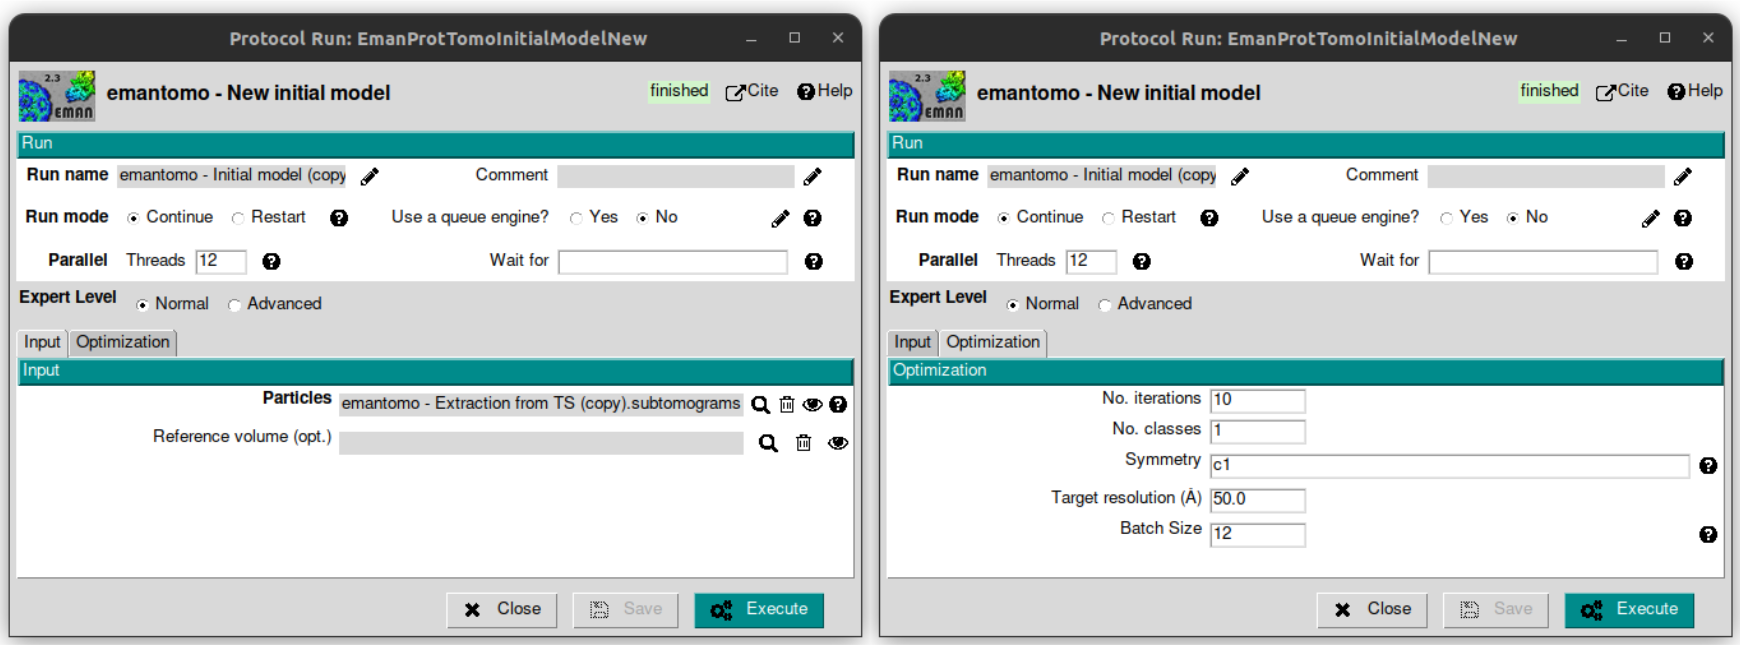
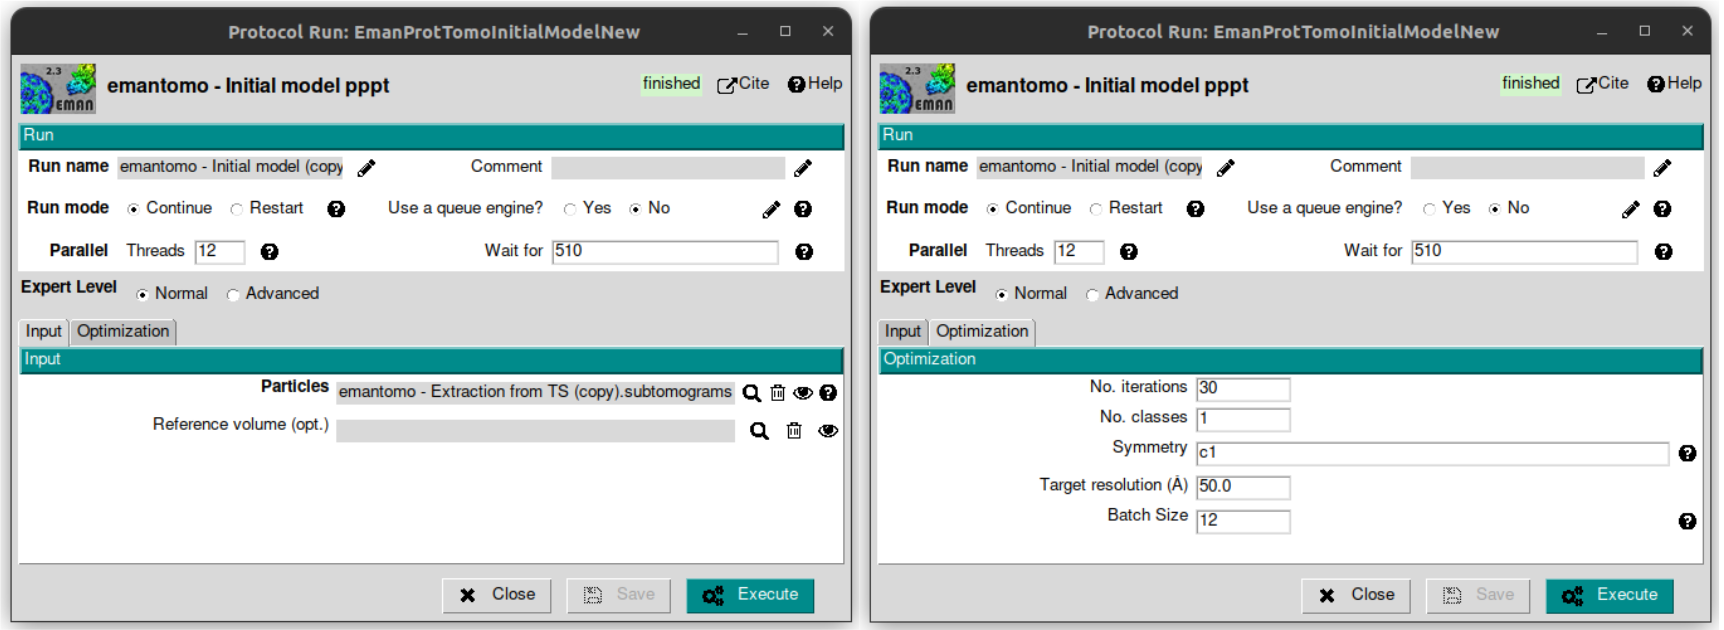
Add whole dataset results

Changed region(s): [[0.0, 0.0, 1.0, 0.9952]]

diff --git a/docs/user/tutorials/tomo/Emantomo_STA/emantomo-sta-workflow.rst b/docs/user/tutorials/tomo/Emantomo_STA/emantomo-sta-workflow.rst
@@ -286,7 +286,7 @@ named "emantomo - Initial model pppt" rom plugin scipion-em-emantomo_ and fill t
 
 *Tab Optimization*
 
-* No. iterations: 10
+* No. iterations: 30
 * Leave the rest of the parameters with the default values.
 
 .. figure:: /docs/user/tutorials/tomo/Emantomo_STA/13_initial_volume_form.png
@@ -373,7 +373,22 @@ Let's display it:
 .. figure:: /docs/user/tutorials/tomo/Emantomo_STA/18_fsc_curves_scipion.png
    :width: 500
    :align: center
-   :alt: Refined subtomograms displayed with Scipion metadata vierwer
+   :alt: FSCs
+
+Full dataset results
+====================
+The same workflow was carried out with all the TS (mixedCTEM ones) that compose the dataset EMPIAR-10064_. The
+corresponding refinement result (dispalyed with ChimeraX_) at bin 1, together with the FSC curves are shown below:
+
+.. figure:: /docs/user/tutorials/tomo/Emantomo_STA/20_refined_avg_chimera_all_dataset.png
+   :width: 500
+   :align: center
+   :alt: Refined average displayed with ChimeraX_ whole dataset
+
+.. figure:: /docs/user/tutorials/tomo/Emantomo_STA/21_fscs_whole_dataset_bin1.png
+   :width: 500
+   :align: center
+   :alt: FSCs at bin1 whole dataset
 
 Tutorial workflow template
 ==========================

diff --git a/docs/user/tomography-tutorials.rst b/docs/user/tomography-tutorials.rst
@@ -87,6 +87,14 @@ with respect to the virus internal membrane.
  *Guide*:
  `Subtomogram Averaging HIV <https://docs.google.com/document/d/1i7nzRV5NWgmw7tPfvlVcVKSkX7_YJUMUenGPZfGN8qw>`_
 
+Subtomogram Averaging Ribosome with EMAN plugin for Scipion
+-----------------------------------------------------------
+
+This tutorial illustrates how to carry out a subtomogram averaging (STA) with a per-particle per-tilt (PPPT) approach
+using EMAN plugin for Scipion combined with others
+
+ *Guide*: :ref:`Subtomogram Averaging Ribosome with EMAN plugin for Scipion <emantomo-sta-workflow>`
+
 Tomography in streaming
 ------------------------------------
 This tutorial guide you in a streaming tomography acquisition using Scipion.
